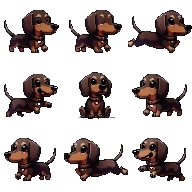
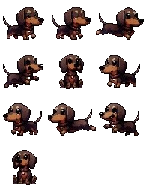
redimensionamento/adição de cenas

diff --git a/cliente/js/mapa.js b/cliente/js/mapa.js
@@ -17,9 +17,9 @@ export default class tilemapMapa extends Phaser.Scene {
     this.load.image('water_animation_demo', './assets/mapa/water_animation_demo.png')
 
     // Carrega as spritesheets dos personagens e artefatos
-    this.load.spritesheet('salsicha-caramelo', './assets/salsicha-caramelo.png', { frameWidth: 64, frameHeight: 64 })
-    this.load.spritesheet('salsicha-marrom', './assets/salsicha-marrom.png', { frameWidth: 64, frameHeight: 64 })
-    // this.load.spritesheet('salsicha', './assets/salsisha.png', { frameWidth: 64, frameHeight: 64 })
+    this.load.spritesheet('salsicha-caramelo', './assets/salsicha-caramelo.png', { frameWidth: 48, frameHeight: 48 })
+    this.load.spritesheet('salsicha-marrom', './assets/salsicha-marrom.png', { frameWidth: 48, frameHeight: 48 })
+    // this.load.spritesheet('agua', './assets/agua.png', { frameWidth: 32, frameHeight: 32 })
 
     // Carrega o plugin do joystick virtual
     this.load.plugin('rexvirtualjoystickplugin', 'https://raw.githubusercontent.com/rexrainbow/phaser3-rex-notes/master/dist/rexvirtualjoystickplugin.min.js', true)
@@ -128,21 +128,25 @@ export default class tilemapMapa extends Phaser.Scene {
     // Define o atributo do tileset para gerar colisão
     this.layerColisao.setCollisionByProperty({ collides: true })
     this.layerChao.setCollisionByProperty({ collides: true })
+    this.layerCaminhoMadeira.setCollisionByProperty({ collides: true })
+    this.layerCaminhoObjetoscenario2.setCollisionByProperty({ collides: true })
 
     // Adiciona colisão entre o personagem e as paredes
     this.physics.add.collider(this.personagemLocal, this.layerColisao)
     this.physics.add.collider(this.personagemLocal, this.layerChao)
+    this.physics.add.collider(this.personagemLocal, this.layerCaminhoMadeira)
+    this.physics.add.collider(this.personagemLocal, this.layerCaminhoObjetoscenario2)
 
     this.anims.create({
       key: 'salsicha-parado-direita',
-      frames: this.anims.generateFrameNumbers(this.personagemLocal.texture.key, { start: 0, end: 1 }),
+      frames: this.anims.generateFrameNumbers(this.personagemLocal.texture.key, { start: 4, end: 4 }),
       frameRate: 2,
       repeat: -1
     })
 
     this.anims.create({
       key: 'salsicha-parado-esquerda',
-      frames: this.anims.generateFrameNumbers(this.personagemLocal.texture.key, { start: 5, end: 6 }),
+      frames: this.anims.generateFrameNumbers(this.personagemLocal.texture.key, { start: 9, end: 9 }),
       frameRate: 2,
       repeat: -1
     })
@@ -221,8 +225,8 @@ export default class tilemapMapa extends Phaser.Scene {
 
       this.personagemLocal.setVelocity(velocityX, velocityY)
 
-      // console.log('x: ', this.personagemLocal.x)
-      // console.log('y: ', this.personagemLocal.y)
+      console.log('x: ', this.personagemLocal.x)
+      console.log('y: ', this.personagemLocal.y)
 
       // Animação do personagem conforme a direção do movimento
       if (Math.abs(velocityX) > Math.abs(velocityY)) {

diff --git a/cliente/js/index.js b/cliente/js/index.js
@@ -10,16 +10,25 @@ class Game extends Phaser.Game {
     super(config)
 
     this.audio = document.querySelector('audio')
-    this.iceServers = {
-      iceServers: [
+
+    let iceServers
+    if (window.location.host === 'feira-de-jogos.dev.br') {
+      this.socket = io({ path: '/jogo/socket.io/' })
+      iceServers = [
+        {
+          urls: 'stun:stun.l.google.com:19302'
+        }
+      ]
+    } else {
+      this.socket = io()
+      iceServers = [
         {
           urls: 'stun:stun.l.google.com:19302'
         }
       ]
     }
+    this.iceServers = { iceServers }
 
-    // eslint-disable-next-line no-undef
-    this.socket = io()
     this.socket.on('connect', () => {
       console.log('Conectado ao servidor!')
     })
